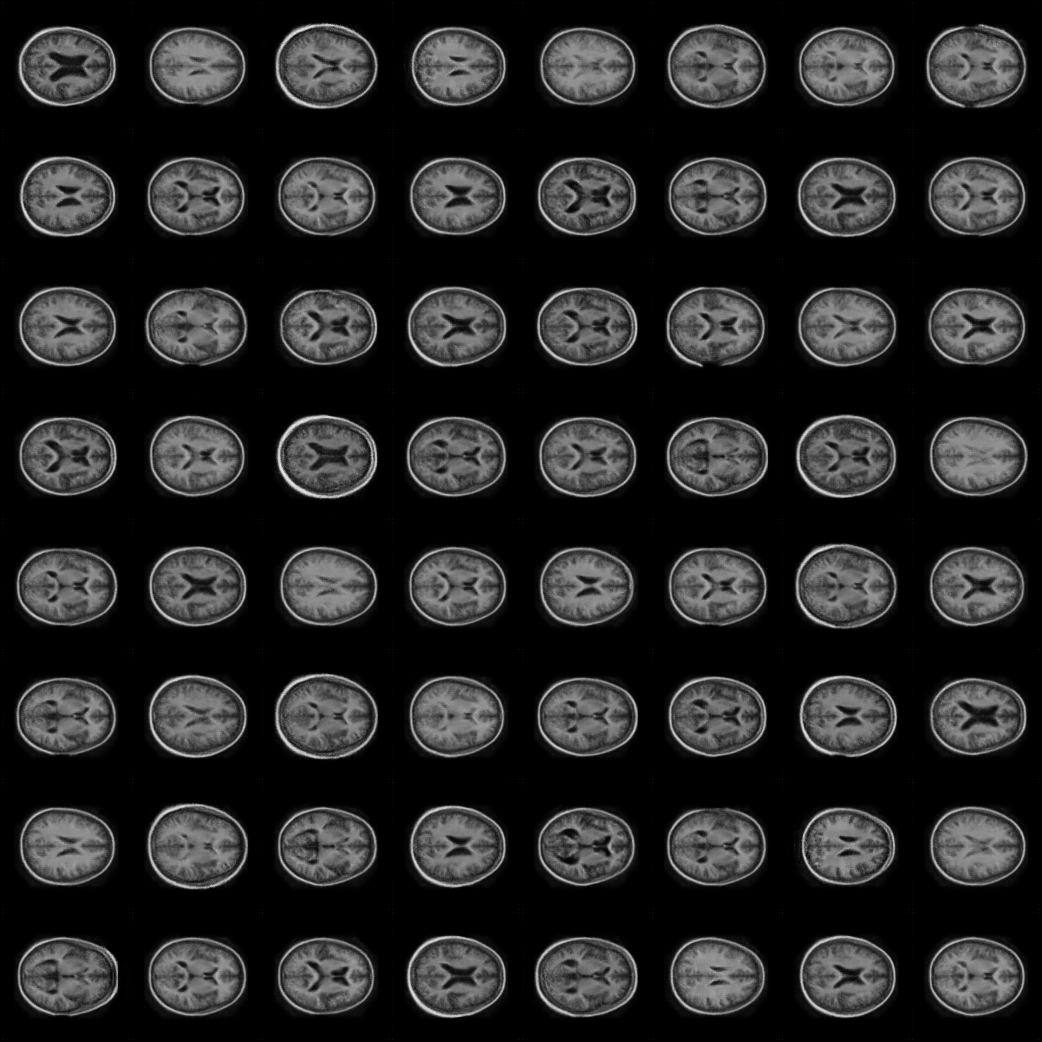
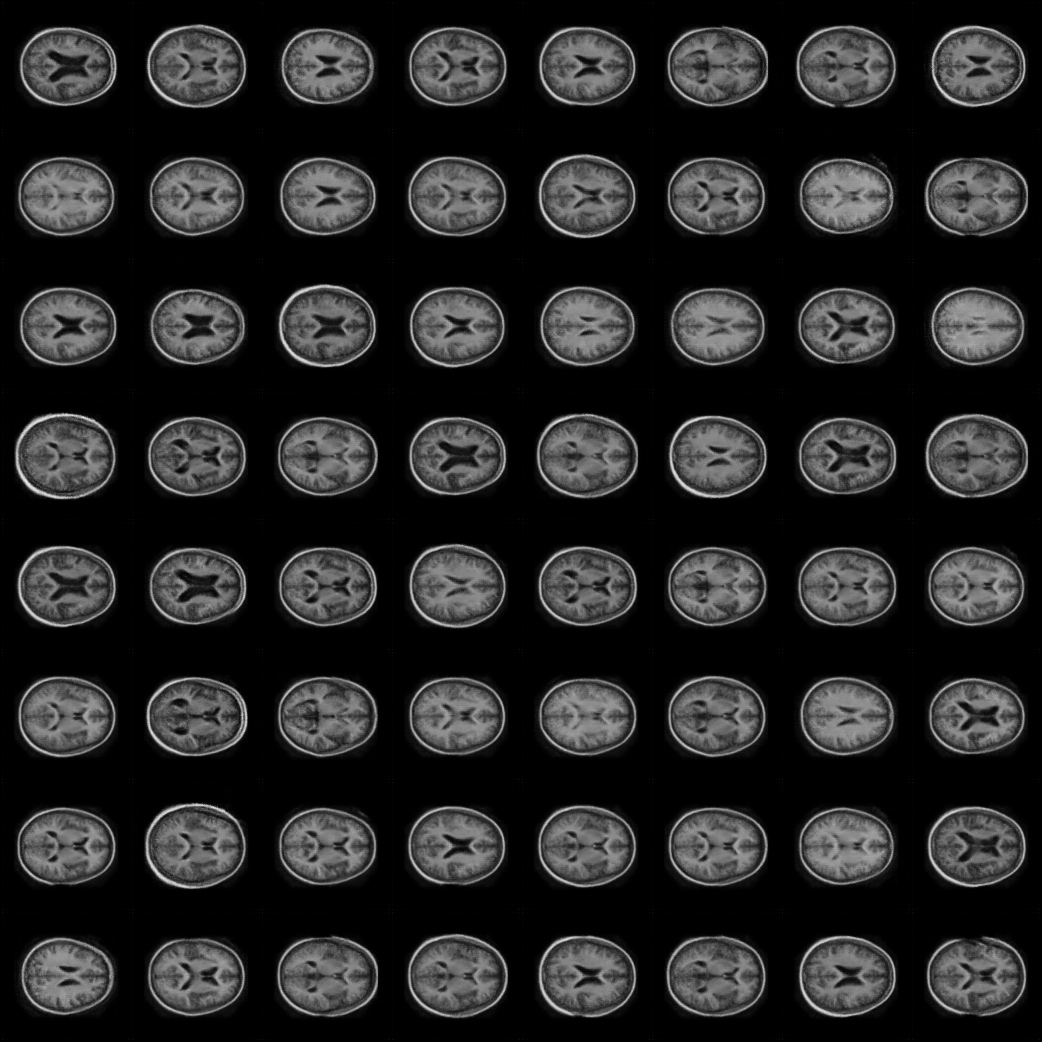
Demonstrate spectral leakage instead of only asserting it
The task sheet asks whether the DFT components differ from the ones used to build the
square wave, "and if so, why might they occur". compare_components answered the first
half — they agree to about 1e-16 — and the second half only in prose: move f0 off an
integer and the lines smear. Nothing showed it.

demonstrate_leakage now synthesises the same wave at f0 = 1.25 Hz, which falls between
bins, and prints the result: the fundamental was built with coefficient 1.273240, yet
the largest single bin holds 1.209203, or 95% of it, while bins that should be empty
pick up 0.25 to 0.40. Set against the 1e-16 agreement in the aligned case, that is the
answer to "why might they occur" as a measurement rather than a claim.

The point it makes is that the exactness of the first comparison comes from T = 1 s and
f0 = 1 Hz placing every harmonic on a bin centre — a property of the chosen parameters,
not of the DFT. part1_run.log is regenerated so the committed log includes the new
section.

diff --git a/part1_dft/dft.py b/part1_dft/dft.py
@@ -270,6 +270,30 @@ def compare_components(dft_result, n_samples, n_harmonics, top=6):
           "each line smears into its neighbours instead.")
 
 
+def demonstrate_leakage(t, n_samples, f0_off: float = 1.25, n_harmonics: int = 50):
+    """Produce the differences the task sheet asks about, on purpose, so the answer is shown.
+
+    With f0 at a whole number of cycles per window, every harmonic sits on a bin centre and the
+    DFT returns the synthesis coefficients exactly. Move f0 off an integer and the signal no
+    longer completes a whole number of periods inside the window. The DFT assumes the window
+    repeats, so it sees a step at the wrap-around, and each spectral line spreads across its
+    neighbouring bins instead of landing in one. That is spectral leakage, and it is the usual
+    reason measured components differ from the ones a signal was built from.
+    """
+    signal = square_wave_fourier(t, f0_off, n_harmonics)
+    magnitude = 2.0 / n_samples * np.abs(naive_dft(signal))
+    ideal = 4.0 / np.pi                      # the fundamental's synthesis coefficient
+    print(f"\n--- the same wave at f0={f0_off} Hz, which falls between bins ---")
+    print(f"{'bin [Hz]':>10}{'measured':>13}")
+    for k in range(6):
+        print(f"{k:>10}{magnitude[k]:>13.6f}")
+    peak = magnitude[:6].max()
+    print(f"the fundamental was synthesised with coefficient {ideal:.6f}, yet no bin holds it:")
+    print(f"  largest single bin: {peak:.6f}  ({peak / ideal * 100:.1f}% of the true value)")
+    print("Each line has smeared across its neighbours. Integer f0 is what made the earlier\n"
+          "comparison exact; it is a property of the chosen parameters, not of the DFT.")
+
+
 def plot_timings(sizes, results, path):
     """Runtimes on log-log axes: the slope gap between O(N^2) and O(N log N) is obvious."""
     fig, ax = plt.subplots(figsize=(8, 6))
@@ -331,6 +355,7 @@ def main():
           f"~1e-7*sqrt(N) float32 range)")
 
     compare_components(dft_np, N_DEFAULT, 50)
+    demonstrate_leakage(t, N_DEFAULT)
     plot_spectrum(t, sig_np, dft_np, N_DEFAULT, OUTDIR / "dft_spectrum.png")
 
     # ---- (c) how slow the double-loop version really is ----
